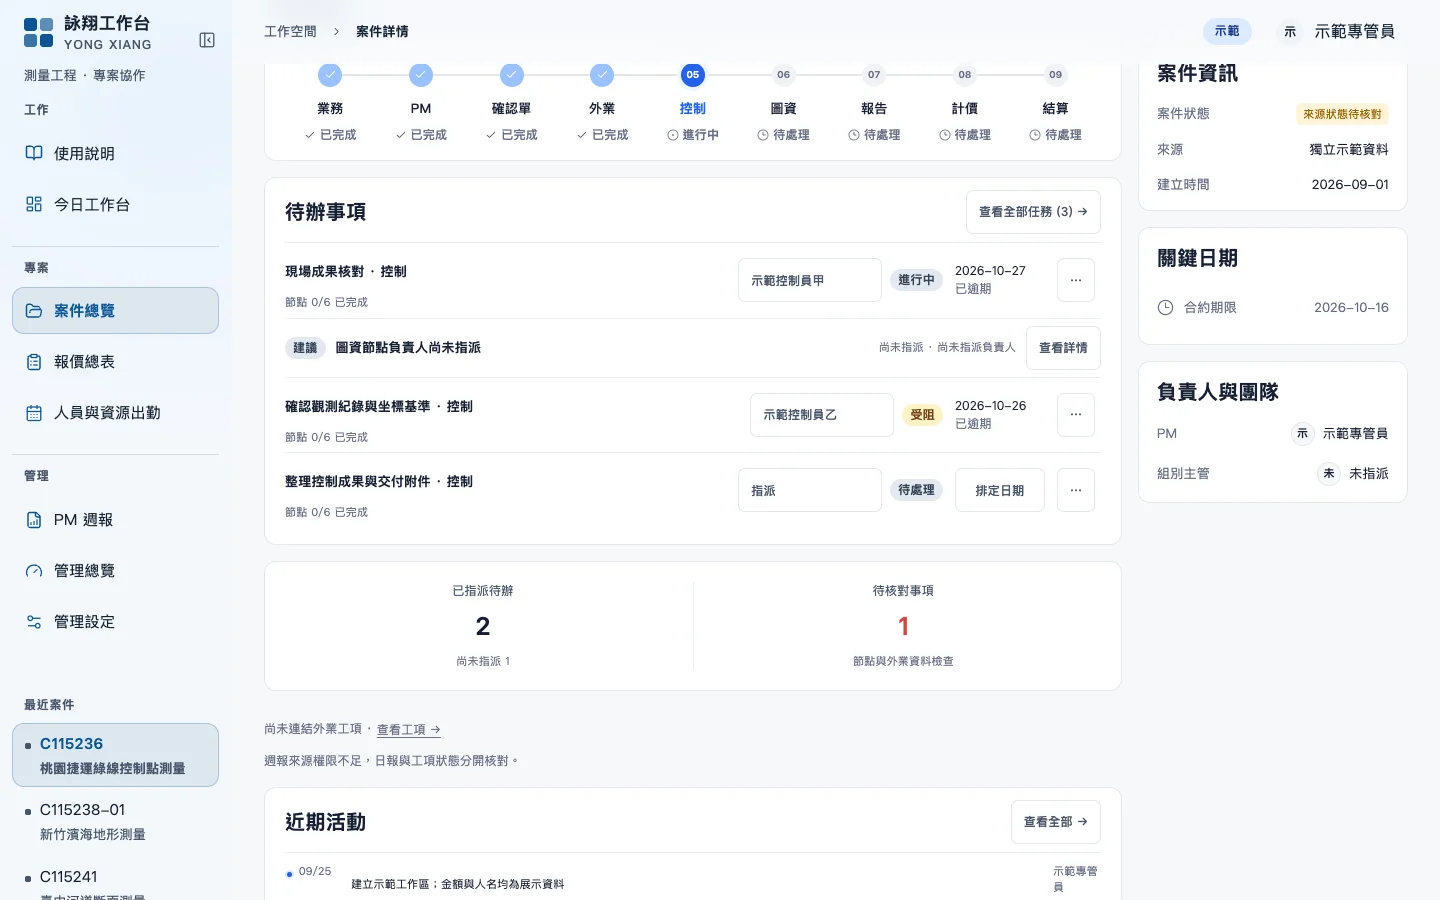
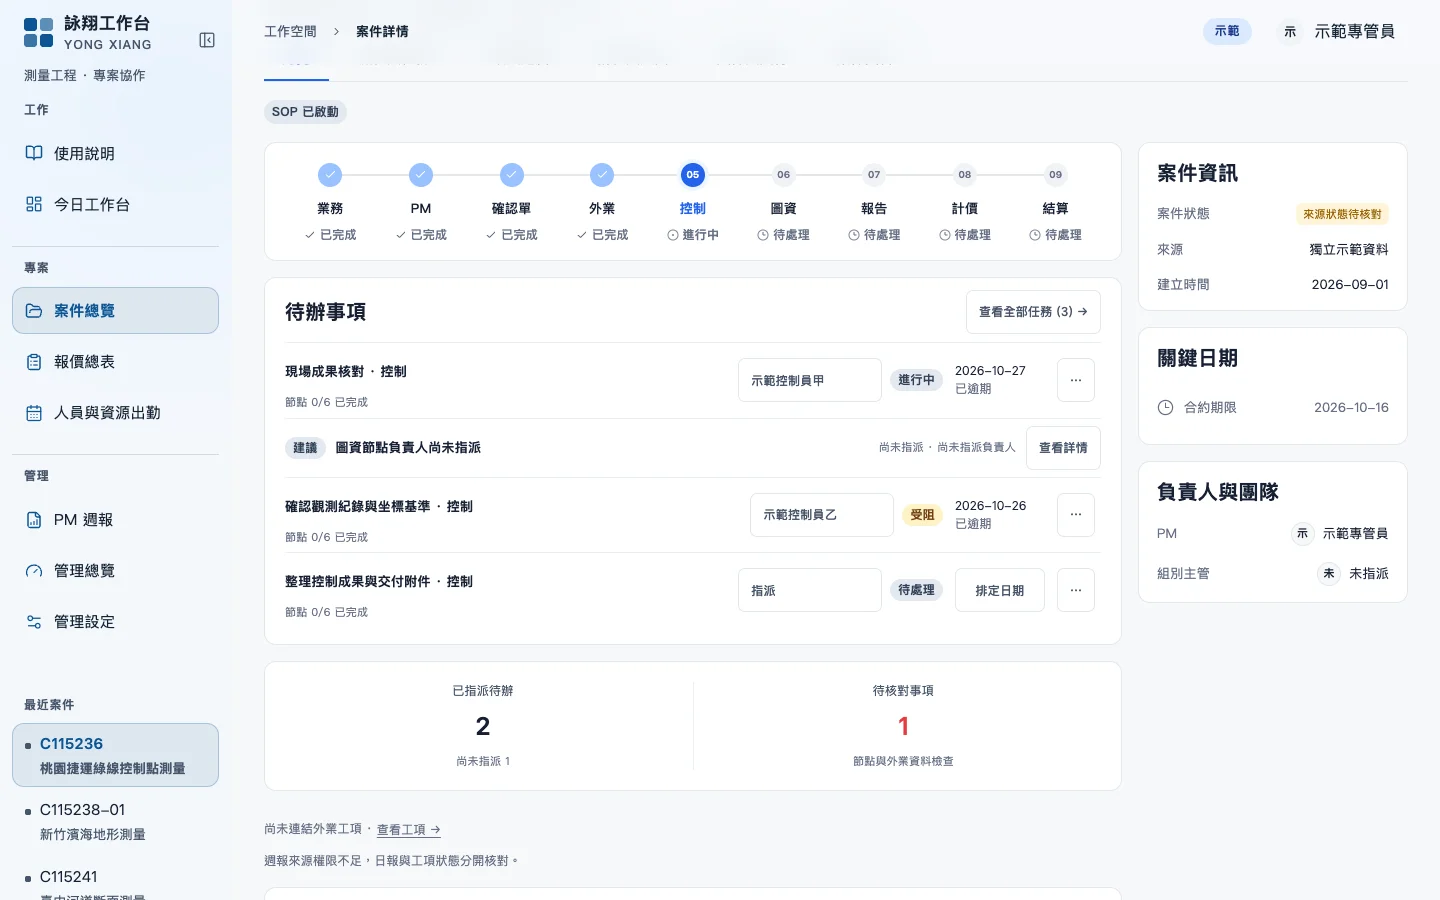
Refresh how-to captures and align guide with scoped actions

diff --git a/frontend/src/howToContent.ts b/frontend/src/howToContent.ts
@@ -7,9 +7,10 @@ export const HOWTO_SECTIONS = [
  ]},
  {id:'prepare-sop',title:'SOP 自動準備',image:'sop.webp',alt:'示範案件的九節點流程與 SOP 已啟動標示。',caption:'進入案件時，系統檢查 SOP',steps:[
   '案件沒有 SOP 時，系統會依你的權限自動準備，不需按啟動按鈕。',
-  '「SOP 準備中」表示正在準備，請稍候。',
+  '「SOP 準備中」請稍候；「SOP 尚未就緒」可按「重試」。',
   '「SOP 已啟動」表示 SOP 已備妥，可查看節點與任務。',
-  '「需由有權限的人員準備 SOP」表示目前身份無法準備，請有權限的人員開啟案件。'
+  '「需由有權限的人員準備 SOP」請交由有權限的人員開啟案件。',
+  '沒有 SOP 提示時，先查看節點與任務；沒有可準備的節點或目前未開放準備時，系統可能不顯示提示。'
  ]},
  {id:'todos',title:'查看待辦事項',image:'tasks.webp',alt:'待辦事項中的示範任務列，顯示負責人、進行中或受阻狀態、期限及逾期標示，另有建議列。',caption:'總覽 → 待辦事項',steps:[
   '任務列是實際要做的工作；標有「建議」的列是提醒，請點進去核對。',
@@ -20,9 +21,9 @@ export const HOWTO_SECTIONS = [
  ]},
  {id:'assign',title:'指派人員',image:'assignee.webp',alt:'任務列的人員選單已展開，可搜尋所有在職人員，預設選項是控制組示範人員。',caption:'待辦事項 → 人員選單',steps:[
   '在可操作的任務列，點負責人或「指派」。',
-  '預設列出該節點組別的人員，選一位即可指派。',
-  '要找其他人，輸入姓名搜尋全體在職人員。',
-  'Lark 節點任務只接受該節點組別的人員；搜尋到其他組別也不能指派。'
+  'SOP 任務預設列出該節點同組人員，選一位即可指派。',
+  'SOP 任務要找其他人，可輸入姓名搜尋全體在職人員。',
+  'Lark 節點任務只列出該節點可指派的人員；搜尋也只會篩選這份名單。'
  ]},
  {id:'details',title:'使用三點選單',image:'menu.webp',alt:'待辦任務右側的三點選單，有編輯權限時顯示編輯詳情。',caption:'待辦事項 → 三點選單',steps:[
   '點任務列右側的三點按鈕。',
@@ -32,15 +33,15 @@ export const HOWTO_SECTIONS = [
  ]},
  {id:'permissions',title:'誰可以操作哪個節點',image:'node.webp',alt:'控制節點明細顯示節點負責人、任務數與操作區。',caption:'點選節點 → 查看明細',steps:[
   '能看見案件的人，都可以查看每個節點。',
-  '節點主管可操作自己負責的節點。',
-  '副總、老闆與管理員可操作所有節點。',
-  '請依畫面開放的按鈕操作；按鈕無法使用時，先確認自己的權限與節點狀態。'
+  '依組別主管名單，主管可操作自己管理的節點；副總、老闆與管理員可管理所有節點。',
+  '「增補任務」、「匯入預設任務」、「新增任務」及整批完成按鈕，依節點管理權限與目前條件顯示。',
+  '請依畫面開放的按鈕操作；沒有按鈕或無法使用時，先確認管理範圍、權限與節點狀態。'
  ]},
- {id:'refresh',title:'更新畫面資料',image:'refresh.webp',alt:'示範案件的流程與任務頁，SOP 任務區有重新整理按鈕。',caption:'流程與任務 → SOP 任務 → 重新整理',steps:[
+ {id:'refresh',title:'更新畫面資料',image:'refresh.webp',alt:'示範案件的流程與任務頁，任務區有重新整理按鈕。',caption:'流程與任務 → 任務 → 重新整理',steps:[
   '開啟頁面時會讀取一次資料。',
-  '離開後再回來，若距上次讀取約一分鐘，會重新讀取。',
-  '要立即更新，按「重新整理」；儲存後也會更新相關資料。',
-  '頁面不再每隔幾秒自動更新。需要確認最新狀態時，請重新整理。'
+  '離開視窗或分頁約一分鐘後再回來，會重新讀取案件資料。',
+  '要立即更新，按任務區的「重新整理」；儲存後也會更新相關資料。',
+  '頁面不會每隔幾秒自動更新；編輯或儲存中會先保留輸入，結束後再更新。'
  ]},
  {id:'sync',title:'查看同步狀態',image:'sync.webp',alt:'示範 SOP 任務詳情中的已同步標示；此標示與任務完成狀態分開顯示。',caption:'SOP 任務詳情 → 同步標示',steps:[
   '「未啟用」表示尚未啟用這項任務的 Lark 同步。',
